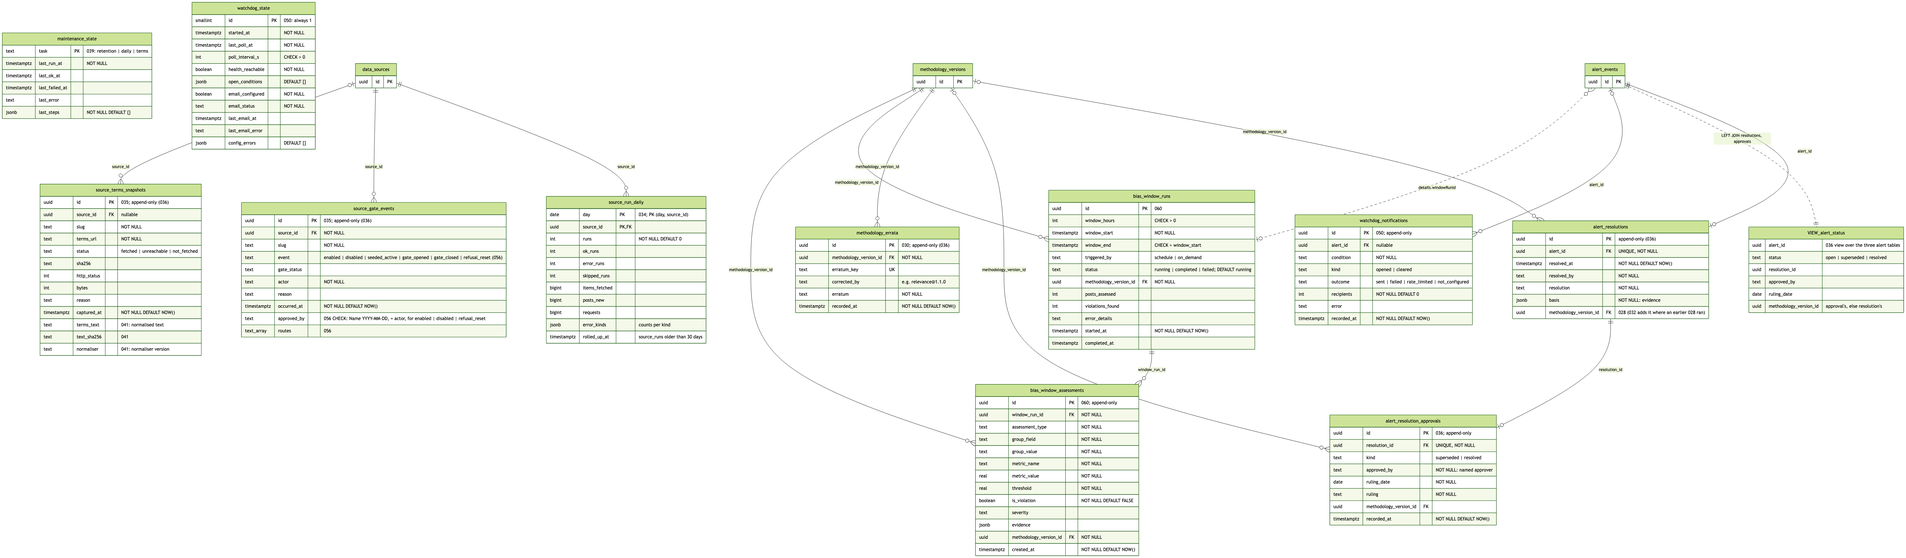
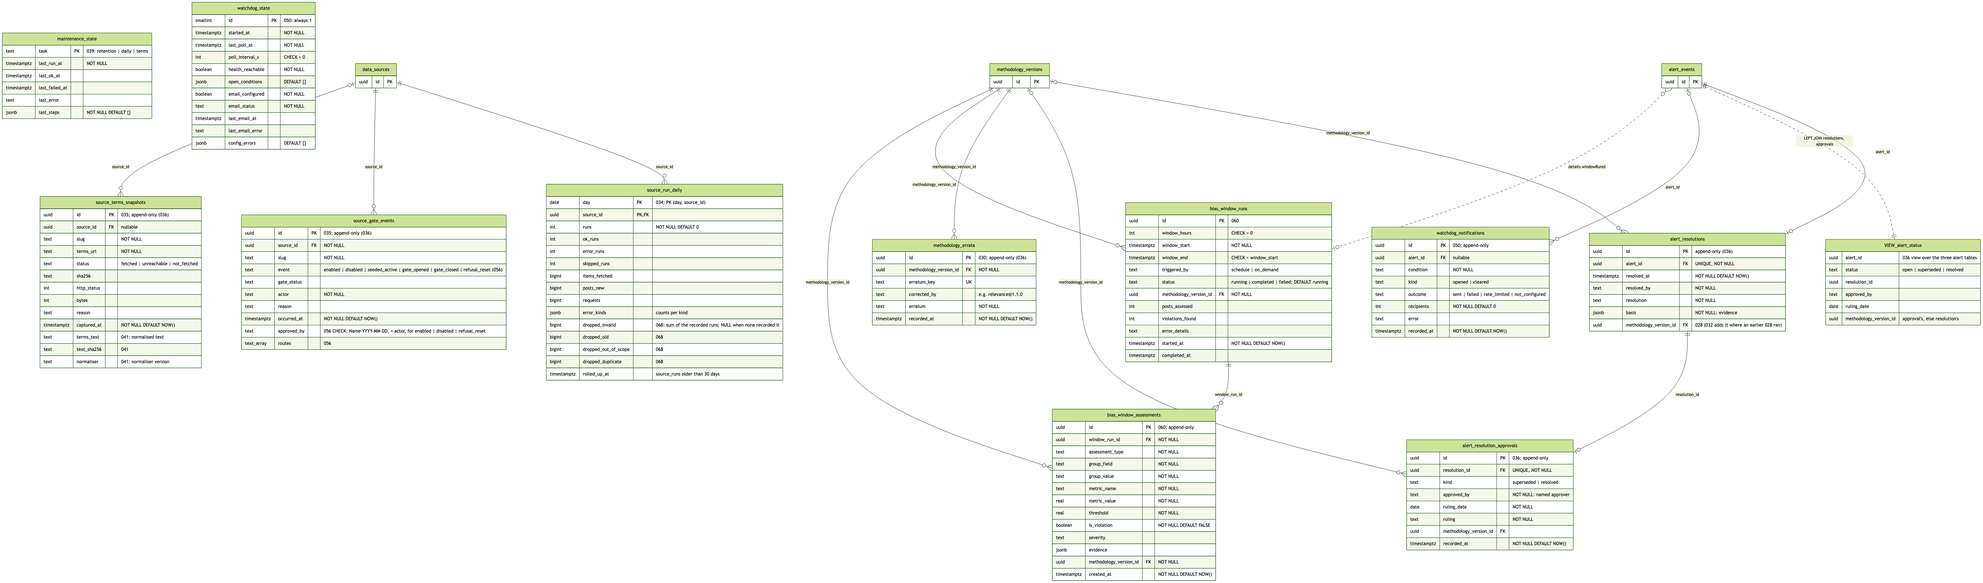
Docs follow-up for relevance Stage 0a: spec, README, CLAUDE.md and diagrams for audit_narration@1.5.0 and the admission counters; demo relevance receipt stated conditionally across audience views

diff --git a/docs/diagrams/data/erd-1-sources-and-jobs.html b/docs/diagrams/data/erd-1-sources-and-jobs.html
@@ -25,12 +25,12 @@
 </head>
 <body>
 <h1>Data model 1 of 4 · sources, collection state, jobs, alerts, Reddit</h1>
-<p class="summary">The tables that describe the 52 registry sources, their collection state and runs, the processing jobs every score belongs to, alerts, and Reddit&#x27;s selection, budget and maintenance state.</p>
+<p class="summary">The tables that describe the 52 registry sources, their collection state, runs and admission counters, the processing jobs every score belongs to, alerts, and Reddit&#x27;s selection, budget and maintenance state.</p>
 <p class="source">Canonical source: <code>erd-1-sources-and-jobs.mmd</code> · index: <code>docs/diagrams/README.md</code></p>
 <pre class="mermaid">
 %% Title: Data model 1 of 4 · sources, collection state, jobs, alerts, Reddit
-%% Summary: The tables that describe the 52 registry sources, their collection state and runs, the processing jobs every score belongs to, alerts, and Reddit's selection, budget and maintenance state.
-%% Sources: src/db/migrations/001, 003, 013, 016, 018, 019, 020, 021, 023, 025, 033, 037, 038, 040, 050, 062. Alert writers: src/pipeline/bias.js (writeAlertEvent), src/collectors/source-alerts.js, source-health.js, retention-overdue.js, state.js, governance.js, src/watchdog/store.js and conditions.js. raw_posts is shown with its keys only (full columns in data model 2); alert resolutions, run rollups, gate events and the watchdog tables are in data model 4. Dotted lines are logical links without a foreign key. NOTE_alert_type_values is a legend box, not a table. Spec: TECHNICAL_SPEC.md section 6.
+%% Summary: The tables that describe the 52 registry sources, their collection state, runs and admission counters, the processing jobs every score belongs to, alerts, and Reddit's selection, budget and maintenance state.
+%% Sources: src/db/migrations/001, 003, 013, 016, 018, 019, 020, 021, 023, 025, 033, 037, 038, 040, 050, 062, 068. Alert writers: src/pipeline/bias.js (writeAlertEvent), src/collectors/source-alerts.js, source-health.js, retention-overdue.js, state.js, governance.js, src/watchdog/store.js and conditions.js. raw_posts is shown with its keys only (full columns in data model 2); alert resolutions, run rollups, gate events and the watchdog tables are in data model 4. Dotted lines are logical links without a foreign key. NOTE_alert_type_values is a legend box, not a table. Spec: TECHNICAL_SPEC.md section 6.
 erDiagram
 
   data_sources {
@@ -90,8 +90,23 @@ erDiagram
     text error_kind "016"
     int http_status "016"
     jsonb response_headers "062: refusal runs only"
+    int dropped_invalid "068: nullable, NULL = not recorded; CHECK &gt;= 0"
+    int dropped_old "068"
+    int dropped_out_of_scope "068"
+    int dropped_duplicate "068: in-batch duplicates"
     timestamptz started_at
     timestamptz finished_at
+  }
+
+  admission_rule_hits {
+    date day PK "068; PK (day, source_id, route, admission_mv_id, rule_id); UTC day"
+    uuid source_id PK, FK
+    text route PK "CHECK: route-id shape; an exact registered route (code)"
+    uuid admission_mv_id PK, FK "admission_filter version (methodology_versions.id, drawn in data model 2)"
+    text rule_id PK "CHECK: invalid | old | duplicate | no_pattern | any_pattern | pattern:NN"
+    bigint admitted_count "CHECK &gt;= 0"
+    bigint rejected_count "CHECK &gt;= 0"
+    timestamptz updated_at
   }
 
   processing_jobs {
@@ -171,6 +186,7 @@ erDiagram
 
   data_sources ||--o| source_collection_state : "has state"
   data_sources ||--o{ source_runs : "run log"
+  data_sources ||--o{ admission_rule_hits : "counts only, source_id"
   processing_jobs |o--o{ source_runs : "job_id, null when no job was open"
   data_sources ||--o{ raw_posts : "source_id"
   alert_events ||..|| NOTE_alert_type_values : "alert_type values"

diff --git a/docs/diagrams/data/erd-4-governance-alerting-maintenance.html b/docs/diagrams/data/erd-4-governance-alerting-maintenance.html
@@ -30,7 +30,7 @@
 <pre class="mermaid">
 %% Title: Data model 4 of 4 · governance, alert resolutions, maintenance, watchdog, rolling bias window
 %% Summary: The audited alert resolutions and their named approvals (with the alert_status view), methodology errata, the daily source-run rollup, the source gate and terms-snapshot logs, the maintenance and watchdog state, the watchdog e-mail log, and the rolling 24 h bias window runs and assessments.
-%% Sources: src/db/migrations/028, 030, 032, 034, 035, 036, 038, 039, 041, 050, 056, 060, 061, 066. Writers: src/collectors/source-alerts.js, src/watchdog/store.js and migrations 028, 032, 038 (resolutions of historical alerts) (alert_resolutions), src/collectors/run-retention.js (source_run_daily), src/collectors/governance.js (source_gate_events, source_terms_snapshots), src/workers/maintenance.worker.js (maintenance_state), src/watchdog/store.js (watchdog_state, watchdog_notifications), src/pipeline/bias-window.js and bias.js (bias_window_*), scripts/seed.js and migrations 030, 061 and 066 (methodology_errata), migration 036 (alert_resolution_approvals). alert_events, methodology_versions and data_sources are shown with their keys only (full columns in data models 1 and 2). APPEND-ONLY (BEFORE UPDATE OR DELETE trigger forbid_append_only_change): alert_resolutions, alert_resolution_approvals, methodology_errata, source_gate_events, source_terms_snapshots (036), watchdog_notifications (050), bias_window_assessments (060); correlation_gate_events (056) is in data model 3. VIEW_alert_status is a view, not a table. Dotted lines are logical links without a foreign key. Spec: TECHNICAL_SPEC.md sections 6, 9, 14, 17, 19.
+%% Sources: src/db/migrations/028, 030, 032, 034, 035, 036, 038, 039, 041, 050, 056, 060, 061, 066, 068. Writers: src/collectors/source-alerts.js, src/watchdog/store.js and migrations 028, 032, 038 (resolutions of historical alerts) (alert_resolutions), src/collectors/run-retention.js (source_run_daily), src/collectors/governance.js (source_gate_events, source_terms_snapshots), src/workers/maintenance.worker.js (maintenance_state), src/watchdog/store.js (watchdog_state, watchdog_notifications), src/pipeline/bias-window.js and bias.js (bias_window_*), scripts/seed.js and migrations 030, 061 and 066 (methodology_errata), migration 036 (alert_resolution_approvals). alert_events, methodology_versions and data_sources are shown with their keys only (full columns in data models 1 and 2). APPEND-ONLY (BEFORE UPDATE OR DELETE trigger forbid_append_only_change): alert_resolutions, alert_resolution_approvals, methodology_errata, source_gate_events, source_terms_snapshots (036), watchdog_notifications (050), bias_window_assessments (060); correlation_gate_events (056) is in data model 3. VIEW_alert_status is a view, not a table. Dotted lines are logical links without a foreign key. Spec: TECHNICAL_SPEC.md sections 6, 9, 14, 17, 19.
 erDiagram
 
   alert_resolutions {
@@ -83,6 +83,10 @@ erDiagram
     bigint posts_new
     bigint requests
     jsonb error_kinds "counts per kind"
+    bigint dropped_invalid "068: sum of the recorded runs; NULL when none recorded it"
+    bigint dropped_old "068"
+    bigint dropped_out_of_scope "068"
+    bigint dropped_duplicate "068"
     timestamptz rolled_up_at "source_runs older than 30 days"
   }
 

diff --git a/docs/diagrams/architecture.html b/docs/diagrams/architecture.html
@@ -72,7 +72,7 @@ flowchart LR
     K4["ingest.worker scores (audited), enqueues embed&lt;br/&gt;embed.worker · correlate.worker refuses every job (DPIA gate)"]:::done
     K5["Reddit maintenance every 5 min&lt;br/&gt;6-hourly deletion re-check, daily discovery&lt;br/&gt;(only while Reddit is collecting)"]:::done
     K6["heartbeat every 15 s"]:::done
-    K7["maintenance.worker: retention every 5 min&lt;br/&gt;(text retention, stale jobs); daily (compaction,&lt;br/&gt;source_runs rollup, bias window bias@1.6.0);&lt;br/&gt;terms snapshots every 7 days"]:::done
+    K7["maintenance.worker: retention every 5 min&lt;br/&gt;(text retention, stale jobs); daily (compaction,&lt;br/&gt;source_runs rollup, admission counts expiry,&lt;br/&gt;bias window bias@1.6.0);&lt;br/&gt;terms snapshots every 7 days"]:::done
   end
 
   subgraph EXT["① External sources · 52-source registry"]
@@ -92,8 +92,8 @@ flowchart LR
 
   subgraph PG["⑦ postgres"]
     direction TB
-    D0["PostgreSQL 16 + pgvector&lt;br/&gt;50 migrations (001-066)"]:::done
-    D1[("data_sources · source_collection_state&lt;br/&gt;source_runs · source_run_daily · processing_jobs")]:::done
+    D0["PostgreSQL 16 + pgvector&lt;br/&gt;54 migrations (001-074)"]:::done
+    D1[("data_sources · source_collection_state&lt;br/&gt;source_runs · source_run_daily · processing_jobs&lt;br/&gt;admission_rule_hits (counts only)")]:::done
     D2[("raw_posts · decision_audit_log · methodology_versions&lt;br/&gt;sentiment / relevance / discourse_results")]:::done
     D3[("post_embeddings VECTOR(384) HNSW&lt;br/&gt;bias_assessments · bias_window_* · alert_events&lt;br/&gt;alert_resolutions")]:::done
     D4[("data_retention_log · monthly rollups · compaction_log&lt;br/&gt;reddit_* · pseudonymous_users")]:::done
@@ -139,7 +139,7 @@ flowchart LR
   Q2 --&gt; K2
   K2 -- "HTTPS via HttpClient: User-Agent with&lt;br/&gt;contact URL, robots.txt, allowed hosts,&lt;br/&gt;SSRF guard, size caps" --&gt; XH
   K2 -- "raw_posts" --&gt; D2
-  K2 -- "source_runs, collection state, processing_jobs" --&gt; D1
+  K2 -- "source_runs (dropped counts), admission_rule_hits, collection state, processing_jobs" --&gt; D1
   K2 -- "ingest jobs" --&gt; Q3
   K2 -- "source_refused alert (collection state)" --&gt; D3
   Q3 --&gt; K4
@@ -154,7 +154,7 @@ flowchart LR
   Q5 --&gt; K7
   K7 -- "blank text, demo purge (raw_posts)" --&gt; D2
   K7 -- "data_retention_log, monthly rollups, compaction_log, demo purge of user_platform_sightings / pseudonymous_users" --&gt; D4
-  K7 -- "source_run_daily rollup, stale processing_jobs" --&gt; D1
+  K7 -- "source_run_daily rollup, expired admission_rule_hits, stale processing_jobs" --&gt; D1
   K7 -- "delete embeddings, bias_window_*, bias and terms_changed alerts" --&gt; D3
   K7 -- "terms snapshots" --&gt; D5
   K7 -- "maintenance_state" --&gt; D6

diff --git a/public/js/ui.js b/public/js/ui.js
@@ -1076,9 +1076,15 @@
                 version: '1.1.2', status: 'pass',
                 score: relevance, scoreKind: 'percent',
                 audiences: {
-                    // audit_narration@1.5.0 wording (src/config/audit-narration.js RELEVANCE_PUBLIC.matched)
-                    public: 'This post matched the AI topic list, and it counts toward the AI-discourse totals.',
-                    plain: 'Rated ' + Math.round(relevance * 100) + '% relevant to AI discourse via keyword and phrase matching.',
+                    // audit_narration@1.5.0 wording (src/config/audit-narration.js
+                    // RELEVANCE_PUBLIC.matched), stated conditionally for the demo
+                    // like the ingestion step: the live system counts a matching
+                    // post toward the AI-discourse totals, but this fictional post
+                    // was never stored, so it counts toward nothing.
+                    public: 'This fictional post matched the AI topic list. A live post that matches counts toward the AI-discourse totals; '
+                        + 'this demo post was never stored, so it counts toward nothing.',
+                    plain: 'Rated ' + Math.round(relevance * 100) + '% relevant to AI discourse via keyword and phrase matching. '
+                        + 'Fictional demo post: it was never stored, so it is in no totals.',
                     config: {
                         matched_terms: ['AI', 'model', 'automated'],
                         min_threshold: 0.6,

diff --git a/docs/diagrams/flows/collection-2-fetch-store-score.html b/docs/diagrams/flows/collection-2-fetch-store-score.html
@@ -48,7 +48,7 @@ flowchart LR
     N1["17 · raw text capped, HTML to text (linear),&lt;br/&gt;identity redaction, ingest@1.8.0: e-mails, @handles,&lt;br/&gt;Reddit u/ names, phones, profile links, cc names,&lt;br/&gt;sign-offs, Wikipedia unsigned notes"]:::done
     N2["18 · allowlisted payload: title, text, link unless an&lt;br/&gt;identity link, published_at, language, city-level&lt;br/&gt;location (basis content or publisher), licence,&lt;br/&gt;attribution; an identity-bearing upstream id is&lt;br/&gt;stored only as route:fp:HMAC (an unkeyed&lt;br/&gt;SHA-256 when no key is set)"]:::done
     N3["19 · provenance_fingerprint = HMAC-SHA256(&lt;br/&gt;PROVENANCE_KEY or AUDIT_HASH_KEY,&lt;br/&gt;slug : upstream id : source URL);&lt;br/&gt;NULL when neither key is set"]:::done
-    N4["20 · drop items older than maxAgeDays (default 7);&lt;br/&gt;admission filter admission_filter@1.0.0&lt;br/&gt;(AI scope, ai-filter.js) on scope 'filter' routes;&lt;br/&gt;dedupe within the batch"]:::done
+    N4["20 · drop items older than maxAgeDays (default 7);&lt;br/&gt;admission filter admission_filter@1.0.0&lt;br/&gt;(AI scope, ai-filter.js) on scope 'filter' routes;&lt;br/&gt;dedupe within the batch; each rejection and&lt;br/&gt;admission is counted by rule (counts only, 068)"]:::done
     N1 --&gt; N2 --&gt; N3 --&gt; N4
   end
 

diff --git a/tests/unit/pure/ui.test.js b/tests/unit/pure/ui.test.js
@@ -885,11 +885,17 @@ describe('demoAuditModel — prototype buildAudit receipt', () => {
         expect(bias.layers[2].status).toBe('n-a');
     });
 
-    test('the relevance sentence is the audit_narration@1.5.0 wording (no "because it is about AI")', () => {
+    test('the relevance views follow audit_narration@1.5.0 and say the demo post counts toward nothing', () => {
         const post = P.demoPostsForCity(posCity(), NOW)[0];
         const m = P.demoAuditModel(post);
-        expect(m.steps[2].audiences.public)
-            .toBe('This post matched the AI topic list, and it counts toward the AI-discourse totals.');
+        const a = m.steps[2].audiences;
+        // 1.5.0 wording, stated conditionally: no "because it is about AI",
+        // and no claim that this never-stored post is in any total.
+        expect(a.public).toMatch(/matched the AI topic list/);
+        expect(a.public).toMatch(/live post that matches counts toward the AI-discourse totals/);
+        expect(a.public).toMatch(/never stored, so it counts toward nothing/);
+        expect(a.public).not.toMatch(/clearly talking about AI/);
+        expect(a.plain).toMatch(/never stored, so it is in no totals/);
     });
 
     test('sentiment/relevance pills mirror the post scores', () => {

diff --git a/tests/e2e/demo-fallback.spec.ts b/tests/e2e/demo-fallback.spec.ts
@@ -83,8 +83,10 @@ test('demo fallback: /api/** blocked → 30-city demo, DEMO badges, local receip
     expect(await drawer.locator('.steps .step').count()).toBeGreaterThanOrEqual(4);
     await expect(drawer.locator('.drawer-foot')).toContainText('fictional demo data');
     // audit_narration@1.5.0: the local demo receipt carries the corrected
-    // relevance sentence, never the superseded "because it's clearly talking about AI".
-    await expect(drawer.locator('.steps')).toContainText('it counts toward the AI-discourse totals');
+    // relevance sentence (stated conditionally, like the ingestion step: the
+    // demo post is never stored), never the superseded "because it's clearly
+    // talking about AI".
+    await expect(drawer.locator('.steps')).toContainText('this demo post was never stored, so it counts toward nothing');
     await expect(drawer.locator('.steps')).not.toContainText('clearly talking about AI');
     await evidence(page, '09-demo-fallback-receipt');
 

diff --git a/docs/diagrams/sequences/audit-receipt.html b/docs/diagrams/sequences/audit-receipt.html
@@ -52,7 +52,7 @@ sequenceDiagram
       API--&gt;&gt;UI: 404 Post not found
     end
     API-&gt;&gt;DB: decision_audit_log JOIN methodology_versions for the post
-    API-&gt;&gt;API: per decision: status, score, 4 audiences rendered from stored&lt;br/&gt;output + config (audit_narration@1.4.0), input_hash as&lt;br/&gt;HMAC-SHA256(AUDIT_HASH_KEY, stored hash), omitted without a key
+    API-&gt;&gt;API: per decision: status, score, 4 audiences rendered from stored&lt;br/&gt;output + config (audit_narration@1.5.0), input_hash as&lt;br/&gt;HMAC-SHA256(AUDIT_HASH_KEY, stored hash), omitted without a key
     API-&gt;&gt;DB: bias_assessments of the job that scored the post
     API-&gt;&gt;DB: bias methodology versions
     API-&gt;&gt;API: bias lineage: recorded (methodology_version_id),&lt;br/&gt;inferred (effective_from), or current, layers from that version's config

diff --git a/docs/diagrams/flows/data-flow-demo-and-retention.html b/docs/diagrams/flows/data-flow-demo-and-retention.html
@@ -76,7 +76,7 @@ flowchart LR
     P4["remove any text still stored&lt;br/&gt;(the same blanking, never nulled)"]:::done
     P3["delete post_embeddings of the month"]:::done
     P5["one data_retention_log row compacted,&lt;br/&gt;one compaction_log row"]:::done
-    P6["same daily job: source_runs older than 30 days&lt;br/&gt;→ source_run_daily, then removed&lt;br/&gt;(rolled_up_source_runs); processing_jobs&lt;br/&gt;are never removed (G4)"]:::done
+    P6["same daily job: source_runs older than 30 days&lt;br/&gt;→ source_run_daily, then removed&lt;br/&gt;(rolled_up_source_runs); processing_jobs&lt;br/&gt;are never removed (G4); admission_rule_hits older&lt;br/&gt;than ADMISSION_RULE_HITS_DAYS (400) removed"]:::done
     P1 --&gt; P2 --&gt; P4 --&gt; P3 --&gt; P5
     P5 ~~~ P6
   end

diff --git a/docs/diagrams/model/pipeline-and-workers.html b/docs/diagrams/model/pipeline-and-workers.html
@@ -180,7 +180,7 @@ classDiagram
   class maintenanceWorker {
     &lt;&lt;workers/maintenance.worker.js&gt;&gt;
     retention every 5 min: text retention, stale jobs
-    daily every 24 h: compaction, source_runs rollup, bias_window
+    daily every 24 h: compaction, source_runs rollup, admission_rule_hits expiry, bias_window
     terms every 7 days: terms snapshots
     +processMaintenanceJob(job, o) steps
     +scheduleMaintenance(queue, env)

diff --git a/docs/TECHNICAL_SPEC.md b/docs/TECHNICAL_SPEC.md
@@ -57,6 +57,7 @@ PRs #24–#28 and #31–#34 merged after v1.2.0 (`master` @ `7291490`; #29 and #
 - **Audit round 5 corrections, §12–§16 (2026-09-30; no code change behind them):** §12 the model's 22.7M parameters (Hugging Face metadata), the `populate` role's `GET /health` readiness check, the Infinity CLI (`infinity_emb v2 --model-id`); §13 a comma in the PR list; §14 the refresh-interval row (collecting sources only, D4 exceptions), correlation latency **PLANNED**, the per-queue backlog limit, the accuracy targets marked not yet measured; §15 MySQL's native `JSON` type, a RoBERTa upgrade needs a registry entry, migration and inference code; §16 X needs `X_BEARER_TOKEN` and `GATE_APPROVED_BY`, the cold-start rule is ≥ 0.85 confidence only.
 - **Reconciliation with PRs #41 and #43 (2026-10-01; #42 and #44 are still open):** header, §11 and §21 the master SHA 2b5e6c3 and the status line names PR #43; §13 adds PRs #41 and #43 to its PR list; §7 `/api/bias/history` pass summaries carry `latest_insufficient` and word an insufficient-sample latest value as not compared with τ; §11 the health drawer shows such a summary as N/A; §12 the `embed` worker reads the service's `GET /health` before it stamps a vector (registered model, revision and library, else NULL; an unreadable `/health` fails the job), and `python/requirements.txt` pins the registered library stack, torch per platform included; §17 a `SOURCE_<SLUG>_RESET` date in the future is ignored, its accepted forms, and the `last_refused_at` carry for a refusal recorded before migration 062. No methodology version or migration changes.
 - **Reconciliation with PR #44 (2026-10-01; #42 is still open):** header, §11 and §21 the master SHA a17020f and the status line names PR #44; §13 adds PR #44 to its PR list; §3, §4, §6, §16, §17 the HTTP client waits out a `Retry-After` of at most 10 s in a run and holds the host up to 24 h for a longer one (or 5 min for a 429 without one), persisted in `source_collection_state.http_cache`; TLDR polls every 180 s (HTTP 429 at 150 s); §6, §8, §19 the retention-log action `source_reattributed` of the manual `scripts/correct-legacy-seed-attribution.js --apply`. No methodology version or migration changes.
+- **Relevance Stage 0a (PR #85, migrations 067-068; 2026-10-01):** §3, §10, §10 "Why?" by audience: `audit_narration@1.5.0` (migration 067, wording only; errata on audit_narration 1.1.0–1.4.0): the relevance step's public sentences say every stored post counts toward the totals whatever its relevance score, and that only-AI-relevant counting arrives with the next relevance version (decision D1); the page's bundled demo receipt states the same sentence conditionally (a fictional post is never stored, so it counts toward nothing), consistent across its audience views; §6 tables 35–36 (`admission_rule_hits`, 068; `source_route_state`, 073, PR #42) and the migration counts (54 files, 001–074), migration 068's dropped-count columns; §7 `/api/health` `admission` and `/api/sources` per-source `admission` (7-day counts); §19 the daily maintenance step that expires `admission_rule_hits` (`ADMISSION_RULE_HITS_DAYS`). Admission decisions are unchanged: the counters are measurement only.
 
 **v1.1.0 Amendments (historical record; v1.2.0 supersedes the source count and categories, the pseudonym format and the retention schedule where the sections below say so):**
 - Scope: Global (not US-only)
@@ -169,7 +170,7 @@ Every implemented threshold is stored in the `methodology_versions` table with a
 |---|---|---|---|
 | Sentiment accuracy target | ≥ 99% (validated against labeled set) | `sentiment@1.0.0` config `accuracy_target: 0.99` | Registered; benchmark validation PLANNED |
 | Demographic inference accuracy | ≥ 99% (Phase 2, labeled test set required) | — | **PLANNED — not implemented as of v1.2.0** |
-| AI relevance | at least one of 21 lexicon terms (score > 0); embed gate score ≥ 1/21 | `relevance@1.2.0` config | Implemented. The v1.1 "≥ 99% precision" target is not registered: the superseded `relevance@1.0.0` row registers `ai_relevance_threshold` 0.99, a score threshold, not a precision target, and no later relevance row carries either |
+| AI relevance | at least one of 21 lexicon terms (score > 0); embed gate score ≥ 1/21 | `relevance@1.2.0` config | Implemented. The v1.1 "≥ 99% precision" target is not registered: the superseded `relevance@1.0.0` row registers `ai_relevance_threshold` 0.99, a score threshold, not a precision target, and no later relevance row carries either. **What counts:** every stored post counts toward the totals whatever its relevance score (no aggregate query filters on `relevance_results`; the score only gates embedding). Only-AI-relevant counting (decision D1) arrives with the next relevance version, after its gold-set gate; `audit_narration@1.5.0` words the receipt that way |
 | Discourse quality score (DQI) | 0.0–1.0, unweighted mean of 5 dimensions | `discourse@1.1.0-DQI` config | Implemented |
 | Location concentration alert | > 35% of content-located posts in one city (warning); > 80% critical; at least 30 content-located posts | `bias@1.6.0` config `location_concentration_max: 0.35`, `location_min_sample: 30`; critical level in code | Implemented |
 | Source concentration alert | > 40% from single source | — | **PLANNED — not implemented as of v1.2.0** |
@@ -245,7 +246,7 @@ The diagram set in `docs/diagrams/` (entry point `docs/diagrams/architecture.*`)
        ▼
 ┌─────────────────────────────────────────────────────────────────┐
 │  VALKEY 8 — BullMQ queues, job schedulers, worker heartbeat     │
-│  POSTGRESQL 16 + pgvector — 34 tables from 50 migrations (§6)   │
+│  POSTGRESQL 16 + pgvector — 36 tables from 54 migrations (§6)   │
 │   raw_posts · decision_audit_log · *_results · post_embeddings  │
 │   (VECTOR(384), HNSW) · methodology_versions · bias_assessments │
 │   · bias_window_* · alert_events · alert_resolutions ·          │
@@ -327,9 +328,9 @@ The diagram set in `docs/diagrams/` (entry point `docs/diagrams/architecture.*`)
 
 ## 6. Database Design
 
-### Schema Overview (34 tables across 50 migrations)
+### Schema Overview (36 tables across 54 migrations)
 
-`scripts/migrate.js` applies the 50 files of `src/db/migrations/` (001–066; the numbering has gaps) in file-name order and records each in `schema_migrations` (its own bookkeeping table, not counted below). No migration drops a table or a column (056 replaces the event CHECK constraint of `source_gate_events` and adds a named-approval CHECK, NOT VALID). The ERDs in `docs/diagrams/data/` draw every column.
+`scripts/migrate.js` applies the 54 files of `src/db/migrations/` (001–074; the numbering has gaps) in file-name order and records each in `schema_migrations` (its own bookkeeping table, not counted below). No migration drops a table or a column (056 replaces the event CHECK constraint of `source_gate_events` and adds a named-approval CHECK, NOT VALID). The ERDs in `docs/diagrams/data/` draw every column.
 
 | # | Table | Created by | Purpose |
 |---|---|---|---|
@@ -367,8 +368,10 @@ The diagram set in `docs/diagrams/` (entry point `docs/diagrams/architecture.*`)
 | 32 | `correlation_gate_events` | 056 | Every change of the correlation DPIA gate (append-only) |
 | 33 | `bias_window_runs` | 060 | One row per rolling 24 h bias run (introduced by bias@1.5.0; runs the current bias version) |
 | 34 | `bias_window_assessments` | 060 | The rolling window's assessments (append-only) |
+| 35 | `admission_rule_hits` | 068 | Admission counts per UTC day, source, route, admission-filter version and rule: counts only, no text or ids (relevance-accuracy R1) |
+| 36 | `source_route_state` | 073 (+074) | The per-route kill switch (one row per source and route ever switched; PR #42) |
 
-**Migration index.** DDL: 001 core, 002 audit, 003 bias, 004 vectors, 005 retention, 006 correlation, 010 bias lineage column, 012 `post_embeddings.methodology_version` (+ `embedding@1.0.0`), 013 source collection, 016 classified collector errors, 017 provenance fingerprint (+ `ingest@1.3.0`, `audit_narration@1.3.0`), 018 refused state, 019 one refresh in flight (partial unique index), 020 database kill switch, 021 cycle in-flight runs, 022 `raw_posts.ingest_mv_id`, 023 unchanged-run counter, 025 Reddit. Data only: 007 canonical category taxonomy, 008 bias vocabulary conformance, 009 `bias@1.1.0` / `ingest@1.0.0` / `audit_narration@1.1.0`, 011 `audit_narration@1.2.0`, 014 `relevance@1.1.0` / `discourse@1.1.0-DQI` / `ingest@1.1.0` (and the released `sentiment@1.0.0`, `relevance@1.0.0`, `discourse@1.0.0-DQI` rows, ON CONFLICT DO NOTHING, so each 1.0.0 row predates its successor on a fresh database), 015 `ingest@1.2.0`, 024 `ingest@1.4.0`, 026 `ingest@1.5.0`. PR #22 (027–060; DDL and data together unless noted): 027 `bias@1.2.0` (data), 028 `alert_resolutions` + `bias@1.3.0`, 029 `relevance@1.2.0` (data), 030 `methodology_errata` (+ the `relevance@1.0.0` erratum), 031 live-text index + `ingest@1.6.0`, 032 `bias@1.4.0` (+ an idempotent re-add of `alert_resolutions.methodology_version_id`, which 028 creates), 033 source freshness, 034 run retention, 035 source governance, 036 alert supersession and append-only triggers, 037 freshness anchor, 038 one open alert per source and type, 039 `maintenance_state`, 040 job progress, 041 terms text, 042 `raw_posts.admission_mv_id` + `admission_filter@1.0.0`, 050 watchdog, 055 `ingest@1.7.0` (data), 056 named gate approval + `correlation_gate_events`, 060 rolling bias window + `bias@1.5.0`. After PR #22: 061 `bias@1.6.0` + the bias 1.4.0 / 1.5.0 errata (data, PR #24), 062 refusal probation columns (PR #33), 065 `embedding@1.1.0` (data, PR #34), 066 `ingest@1.8.0` / `audit_narration@1.4.0` + the ingest 1.0.0–1.7.0 content-hash errata (data, PR #38). Released migrations are never edited; a new methodology version ships as a new migration, field-for-field equal to `src/config/methodology-registry.js` (`tests/unit/pure/methodologyRegistry.test.js`).
+**Migration index.** DDL: 001 core, 002 audit, 003 bias, 004 vectors, 005 retention, 006 correlation, 010 bias lineage column, 012 `post_embeddings.methodology_version` (+ `embedding@1.0.0`), 013 source collection, 016 classified collector errors, 017 provenance fingerprint (+ `ingest@1.3.0`, `audit_narration@1.3.0`), 018 refused state, 019 one refresh in flight (partial unique index), 020 database kill switch, 021 cycle in-flight runs, 022 `raw_posts.ingest_mv_id`, 023 unchanged-run counter, 025 Reddit. Data only: 007 canonical category taxonomy, 008 bias vocabulary conformance, 009 `bias@1.1.0` / `ingest@1.0.0` / `audit_narration@1.1.0`, 011 `audit_narration@1.2.0`, 014 `relevance@1.1.0` / `discourse@1.1.0-DQI` / `ingest@1.1.0` (and the released `sentiment@1.0.0`, `relevance@1.0.0`, `discourse@1.0.0-DQI` rows, ON CONFLICT DO NOTHING, so each 1.0.0 row predates its successor on a fresh database), 015 `ingest@1.2.0`, 024 `ingest@1.4.0`, 026 `ingest@1.5.0`. PR #22 (027–060; DDL and data together unless noted): 027 `bias@1.2.0` (data), 028 `alert_resolutions` + `bias@1.3.0`, 029 `relevance@1.2.0` (data), 030 `methodology_errata` (+ the `relevance@1.0.0` erratum), 031 live-text index + `ingest@1.6.0`, 032 `bias@1.4.0` (+ an idempotent re-add of `alert_resolutions.methodology_version_id`, which 028 creates), 033 source freshness, 034 run retention, 035 source governance, 036 alert supersession and append-only triggers, 037 freshness anchor, 038 one open alert per source and type, 039 `maintenance_state`, 040 job progress, 041 terms text, 042 `raw_posts.admission_mv_id` + `admission_filter@1.0.0`, 050 watchdog, 055 `ingest@1.7.0` (data), 056 named gate approval + `correlation_gate_events`, 060 rolling bias window + `bias@1.5.0`. After PR #22: 061 `bias@1.6.0` + the bias 1.4.0 / 1.5.0 errata (data, PR #24), 062 refusal probation columns (PR #33), 065 `embedding@1.1.0` (data, PR #34), 066 `ingest@1.8.0` / `audit_narration@1.4.0` + the ingest 1.0.0–1.7.0 content-hash errata (data, PR #38), 067 `audit_narration@1.5.0` + the audit_narration 1.1.0–1.4.0 relevance-wording errata (data), 068 admission rejection counters (`source_runs.dropped_*`, `source_run_daily.dropped_*`, `admission_rule_hits`), 073 and 074 the per-route kill switch (`source_route_state`) and its hardening (PR #42). Released migrations are never edited; a new methodology version ships as a new migration, field-for-field equal to `src/config/methodology-registry.js` (`tests/unit/pure/methodologyRegistry.test.js`).
 
 ```
 data_sources ─┬─ raw_posts ─┬─ decision_audit_log ── methodology_versions
@@ -392,7 +395,7 @@ correlation_gate_events · reddit_subreddit_rankings · reddit_api_budget · red
 
 ### Schema additions of PRs #10 and #22 (migrations 025–060)
 
-Tables 23–34 above, and the columns and indexes later migrations added to earlier tables:
+Tables 23–36 above, and the columns and indexes later migrations added to earlier tables:
 
 | Table / column | Migration | Purpose |
 |---|---|---|
@@ -861,7 +864,7 @@ Requests a collection + processing run over the source registry (an operator act
 ---
 
 ### `GET /api/audit/:post_id`
-The explainability endpoint (`src/routes/audit.js`): the receipt for one post. The four audience representations of every step are rendered at read time by the versioned templates of `audit_narration@1.4.0` (`src/config/audit-narration.js`); no per-post prose is stored.
+The explainability endpoint (`src/routes/audit.js`): the receipt for one post. The four audience representations of every step are rendered at read time by the versioned templates of `audit_narration@1.5.0` (`src/config/audit-narration.js`); no per-post prose is stored.
 
 **Path param:** `post_id`, checked against the strict 8-4-4-4-12 UUID pattern before any query.
 
@@ -887,7 +890,7 @@ The explainability endpoint (`src/routes/audit.js`): the receipt for one post. T
     "data_origin": "live",
     "collected_at": "2026-09-29T09:58:12Z"
   },
-  "narration": { "component": "audit_narration", "version": "1.3.0" },
+  "narration": { "component": "audit_narration", "version": "1.5.0" },
   "ingest": { "…": "the synthetic ingestion step rendered from the ingest methodology row", "lineage": "recorded" },
   "decisions": [
     {
@@ -991,7 +994,7 @@ The health drawer's "alert history · last 12 h" (`src/routes/bias.js`). Every q
 ---
 
 ### `GET /api/methodology`
-Every non-deprecated methodology version, ordered by `component` and then `effective_from` descending (`src/routes/methodology.js`). The rows are those of `src/config/methodology-registry.js`; the version each pipeline stage runs is `CURRENT_VERSIONS` there (sentiment 1.0.0, relevance 1.2.0, discourse 1.1.0-DQI, bias 1.6.0, ingest 1.8.0, audit_narration 1.4.0, embedding 1.1.0, admission_filter 1.0.0), never "latest by timestamp". Each row carries its `errata` (`methodology_errata`, migration 030: `[{ erratum, corrected_by, recorded_at }]`, empty for most rows).
+Every non-deprecated methodology version, ordered by `component` and then `effective_from` descending (`src/routes/methodology.js`). The rows are those of `src/config/methodology-registry.js`; the version each pipeline stage runs is `CURRENT_VERSIONS` there (sentiment 1.0.0, relevance 1.2.0, discourse 1.1.0-DQI, bias 1.6.0, ingest 1.8.0, audit_narration 1.5.0, embedding 1.1.0, admission_filter 1.0.0), never "latest by timestamp". Each row carries its `errata` (`methodology_errata`, migration 030: `[{ erratum, corrected_by, recorded_at }]`, empty for most rows).
 
 **Response 200** (two of the rows):
 ```json
@@ -1375,11 +1378,11 @@ raw_posts.id
 
 ### Responding to "Why?" by Audience
 
-The receipt renders every step in four audience views (`audit_narration@1.4.0`, `src/config/audit-narration.js`; the drawer's segmented control in `public/js/ui.js`):
+The receipt renders every step in four audience views (`audit_narration@1.5.0`, `src/config/audit-narration.js`; the drawer's segmented control in `public/js/ui.js`):
 
 | View (payload key) | Who | What they get from `GET /api/audit/:post_id` |
 |---|---|---|
-| Public (`public`) | General public | A jargon-free sentence per step |
+| Public (`public`) | General public | A jargon-free sentence per step. The relevance step says what counts today: a post that matched the AI topic list "counts toward the AI-discourse totals"; one that did not "still counts toward the AI-discourse totals" today, and from the next relevance version only AI-relevant posts will count (`audit_narration@1.5.0`, `RELEVANCE_PUBLIC`). The page's bundled demo receipt states the same step conditionally: a fictional post is never stored, so it counts toward nothing |
 | Journalist (`plain`) | Journalist: "Why does this city score negative?" | A plain-English explanation with the cue phrases and scores |
 | Regulator (`config`) | Regulator: "What algorithm made this decision?" | A key/value table: thresholds, versions, legal basis |
 | Researcher (`researcher`) | Researcher: "Can I reproduce this score?" | Cue weights and the reproduce command (`npm run replay -- --post <id>`), next to the keyed input fingerprint, model_name, config and output. The API exposes `input_hash` as HMAC-SHA256(`AUDIT_HASH_KEY`, stored hash), never the raw content hash (prevents offline hash-confirmation of post content); consumers verify content in their own systems. The ingestion step states that the content hash is an integrity check recorded as `input_hash`, not a join key (`audit_narration@1.4.0`) |
@@ -1391,7 +1394,7 @@ The v1.1 "Internal audit" question ("Did methodology change between runs?") is a
 The collection admission filter (`src/collectors/ai-filter.js`) decides which items of a site-wide or technology feed are stored at all, so it is the versioned component `admission_filter` (1.0.0, migration 042). Its registered config is exactly the code's patterns, search terms and scope rule (a unit test fails on any difference); a change is a new version. Every collected post records the version it was admitted under (`raw_posts.admission_mv_id`), shown on the audit receipt as `provenance.admission`.
 
 ### Methodology Registration and Seeding
-`src/config/methodology-registry.js` is the single source of truth for every `methodology_versions` row. `scripts/seed.js` inserts every row (`ON CONFLICT (component, version) DO NOTHING`); migrations 009, 011, 012, 014, 015, 017, 024, 026, 027, 028, 029, 031, 032, 042, 055, 060, 061, 065 and 066 insert the same rows so a database that is only migrated serves identical receipts, and `tests/unit/pure/methodologyRegistry.test.js` asserts field-for-field equality. A released row is never edited: a config or wording change ships as a new version row and a new migration, and a correction to a released row is recorded as an erratum (`methodology_errata`, migration 030).
+`src/config/methodology-registry.js` is the single source of truth for every `methodology_versions` row. `scripts/seed.js` inserts every row (`ON CONFLICT (component, version) DO NOTHING`); migrations 009, 011, 012, 014, 015, 017, 024, 026, 027, 028, 029, 031, 032, 042, 055, 060, 061, 065, 066 and 067 insert the same rows so a database that is only migrated serves identical receipts, and `tests/unit/pure/methodologyRegistry.test.js` asserts field-for-field equality. A released row is never edited: a config or wording change ships as a new version row and a new migration, and a correction to a released row is recorded as an erratum (`methodology_errata`, migration 030).
 
 ```javascript
 // src/config/methodology-registry.js — the first row
@@ -1409,7 +1412,7 @@ The collection admission filter (`src/collectors/ai-filter.js`) decides which it
 }
 ```
 
-Registered components on `master` (28 rows): sentiment (**1.0.0**), relevance (1.0.0, 1.1.0, **1.2.0**), discourse (1.0.0-DQI, **1.1.0-DQI**), bias (1.1.0 to **1.6.0**), ingest (1.0.0 to **1.8.0**), audit_narration (1.1.0 to **1.4.0**), embedding (1.0.0, **1.1.0**), admission_filter (**1.0.0**); bold = the version the code runs (`CURRENT_VERSIONS`). 11 errata (`METHODOLOGY_ERRATA`): relevance 1.0.0; bias 1.4.0, 1.5.0; ingest 1.0.0–1.7.0 (corrected by ingest@1.8.0). A `demographic` component is **PLANNED — not implemented as of v1.2.0**.
+Registered components on `master` (29 rows): sentiment (**1.0.0**), relevance (1.0.0, 1.1.0, **1.2.0**), discourse (1.0.0-DQI, **1.1.0-DQI**), bias (1.1.0 to **1.6.0**), ingest (1.0.0 to **1.8.0**), audit_narration (1.1.0 to **1.5.0**), embedding (1.0.0, **1.1.0**), admission_filter (**1.0.0**); bold = the version the code runs (`CURRENT_VERSIONS`). 15 errata (`METHODOLOGY_ERRATA`): relevance 1.0.0; bias 1.4.0, 1.5.0; ingest 1.0.0–1.7.0 (corrected by ingest@1.8.0); audit_narration 1.1.0–1.4.0 (relevance wording, corrected by audit_narration@1.5.0, migration 067). A `demographic` component is **PLANNED — not implemented as of v1.2.0**.
 
 ---
 
@@ -1581,7 +1584,7 @@ All of these must be complete before writing a single feature:
 2. `.env.example` + `.env` + `.gitignore` entries
 3. `package.json` — add `pg`, `pgvector` (the plan named `@pgvector/pg`), `jest`, `supertest`; remove `sqlite3`
 4. `jest.config.js` + `tests/setup.js` (test DB connection + migration + truncate)
-5. `src/db/migrations/001–004.sql` — the first four migration files (50 today, 001–066, §6)
+5. `src/db/migrations/001–004.sql` — the first four migration files (54 today, 001–074, §6)
 6. `scripts/migrate.js` — runs migrations in order, idempotent
 7. `scripts/seed.js` — inserts data_sources rows + initial methodology_versions
 8. `src/db/connection.js` — pg Pool, `dbAll()`, `dbGet()`, `dbRun()` Promise helpers

diff --git a/CLAUDE.md b/CLAUDE.md
@@ -34,7 +34,7 @@ npm run teardown       # stop it (keeps volumes); `-- --purge` deletes volumes a
 
 ## Architecture
 - **Sources (ADR 0001):** `src/config/source-registry.js` is the registry of record — exactly the workbook's 52 sources (`docs/requirements/Top_50_Global_Online_Sources.xlsx` Rev. 4 — Reddit #52 in Forums, ADR 0001 rulings 8-9; counts are `SOURCES.length`; `tests/unit/pure/sourceRegistry.test.js` parses the xlsx). Gate status per source comes from env at runtime (collecting / awaiting_key / awaiting_approval / awaiting_licence / blocked / disabled); kill switch `SOURCE_<SLUG>_ENABLED=false` or `COLLECTORS_DISABLED`. Collectors in `src/collectors/` (one HTTP client: UA with `COLLECTOR_CONTACT_URL`, robots.txt, per-host spacing, backoff, Retry-After holds of the host (≤ 10 s waited in-run, longer held up to 24 h in `http_cache`), never retries 401/403); `runner.js` = collect → store → score (audited) → bias → embed. Tests use fixtures only (`tests/fixtures/collectors`, network refused under NODE_ENV=test); `npm run collect:smoke` is the live check. Migrations 013 (collection state, old seed retired), 014 (methodology alignment) and 015 (ingest@1.2.0 in-text redaction); the pipeline records `CURRENT_VERSIONS`, never "latest effective_from" Reddit: approval-gated Data API only (`src/collectors/reddit/`), closed until all four `REDDIT_*` vars are set; top-7 subreddit selection stored in `reddit_subreddit_rankings`; one shared request budget; post text blanked at 48 h by the worker's repeatable `maintenance` job (`src/collectors/retention.js`, `src/workers/maintenance.worker.js`), or on upstream deletion by the worker's Reddit maintenance timer (`src/collectors/reddit/recheck.js`, every 6 h), scores and audit rows kept (ruling 9). Reddit fixtures are hand-written from docs, never recorded — never contact reddit.com.
-- **DB:** PostgreSQL 16 + pgvector — 50 migrations in `src/db/migrations/` (001–066 with gaps; 025 Reddit tables + `raw_posts.text_removed_*`, 027–060 PR #22, 061 `bias@1.6.0`, 062 refusal probation, 065 `embedding@1.1.0`, 066 `ingest@1.8.0` / `audit_narration@1.4.0` content-hash wording + errata) (009 registers the bias / ingest / audit_narration methodology rows; it must stay field-for-field equal to `src/config/methodology-registry.js`; 010 adds per-assessment bias methodology lineage — `bias_assessments.methodology_version_id`, resolved at read time as recorded, inferred or current by `src/config/bias-lineage.js`; 011 registers audit_narration@1.2.0 — 009 is released and never edited, later methodology versions ship as new migrations; 012 registers embedding@1.0.0 — the embedding model pinned to a Hugging Face commit via EMBED_MODEL_REVISION — and adds `post_embeddings.methodology_version`; 013–015 are the source-collection migrations, see Sources above)
+- **DB:** PostgreSQL 16 + pgvector — 54 migrations in `src/db/migrations/` (001–074 with gaps; 025 Reddit tables + `raw_posts.text_removed_*`, 027–060 PR #22, 061 `bias@1.6.0`, 062 refusal probation, 065 `embedding@1.1.0`, 066 `ingest@1.8.0` / `audit_narration@1.4.0` content-hash wording + errata, 067 `audit_narration@1.5.0` relevance wording + errata, 068 admission rejection counters, 073–074 per-route kill switch) (009 registers the bias / ingest / audit_narration methodology rows; it must stay field-for-field equal to `src/config/methodology-registry.js`; 010 adds per-assessment bias methodology lineage — `bias_assessments.methodology_version_id`, resolved at read time as recorded, inferred or current by `src/config/bias-lineage.js`; 011 registers audit_narration@1.2.0 — 009 is released and never edited, later methodology versions ship as new migrations; 012 registers embedding@1.0.0 — the embedding model pinned to a Hugging Face commit via EMBED_MODEL_REVISION — and adds `post_embeddings.methodology_version`; 013–015 are the source-collection migrations, see Sources above)
 - **Data mode:** `src/config/data-mode.js` classifies posts by source (`data_sources.source_type = 'demo'` = standup demo feed): `/api/health` reports `data_mode` (demo / live / mixed / none, trailing hour), `active_sources` (demo feeds excluded) and `demo_feeds`; aggregated rows carry `demo_posts` + `data_mode`; receipts carry `post.data_origin`. The frontend (`data.js dataModeOf`, `chapters.js resolveIntro`) turns it into the intro kicker (LIVE / DEMO / LIVE + DEMO), interpolated intro numbers and the "— Demo data" markers; `isDemo` still means only the bundled fallback (no fetches)
 - **Pipeline:** `src/pipeline/` — sentiment → relevance → discourse → embeddings → correlation
 - **Workers:** BullMQ queues backed by Valkey 8 (Redis protocol; env vars keep the `REDIS_*` names); worker files mirror pipeline modules
